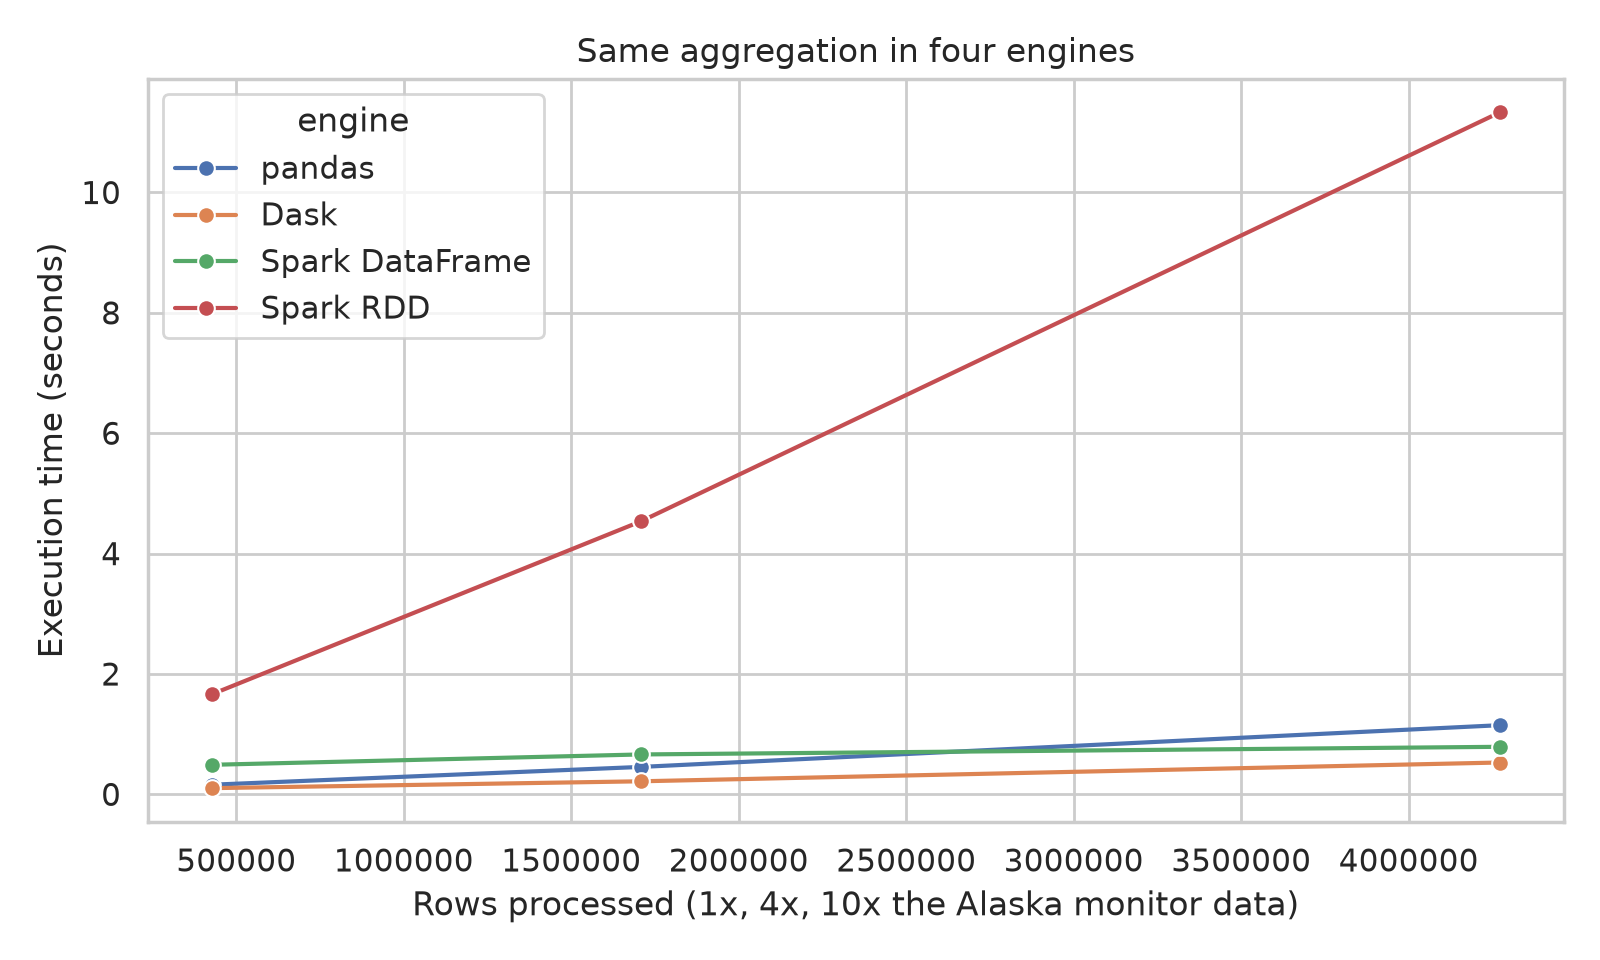
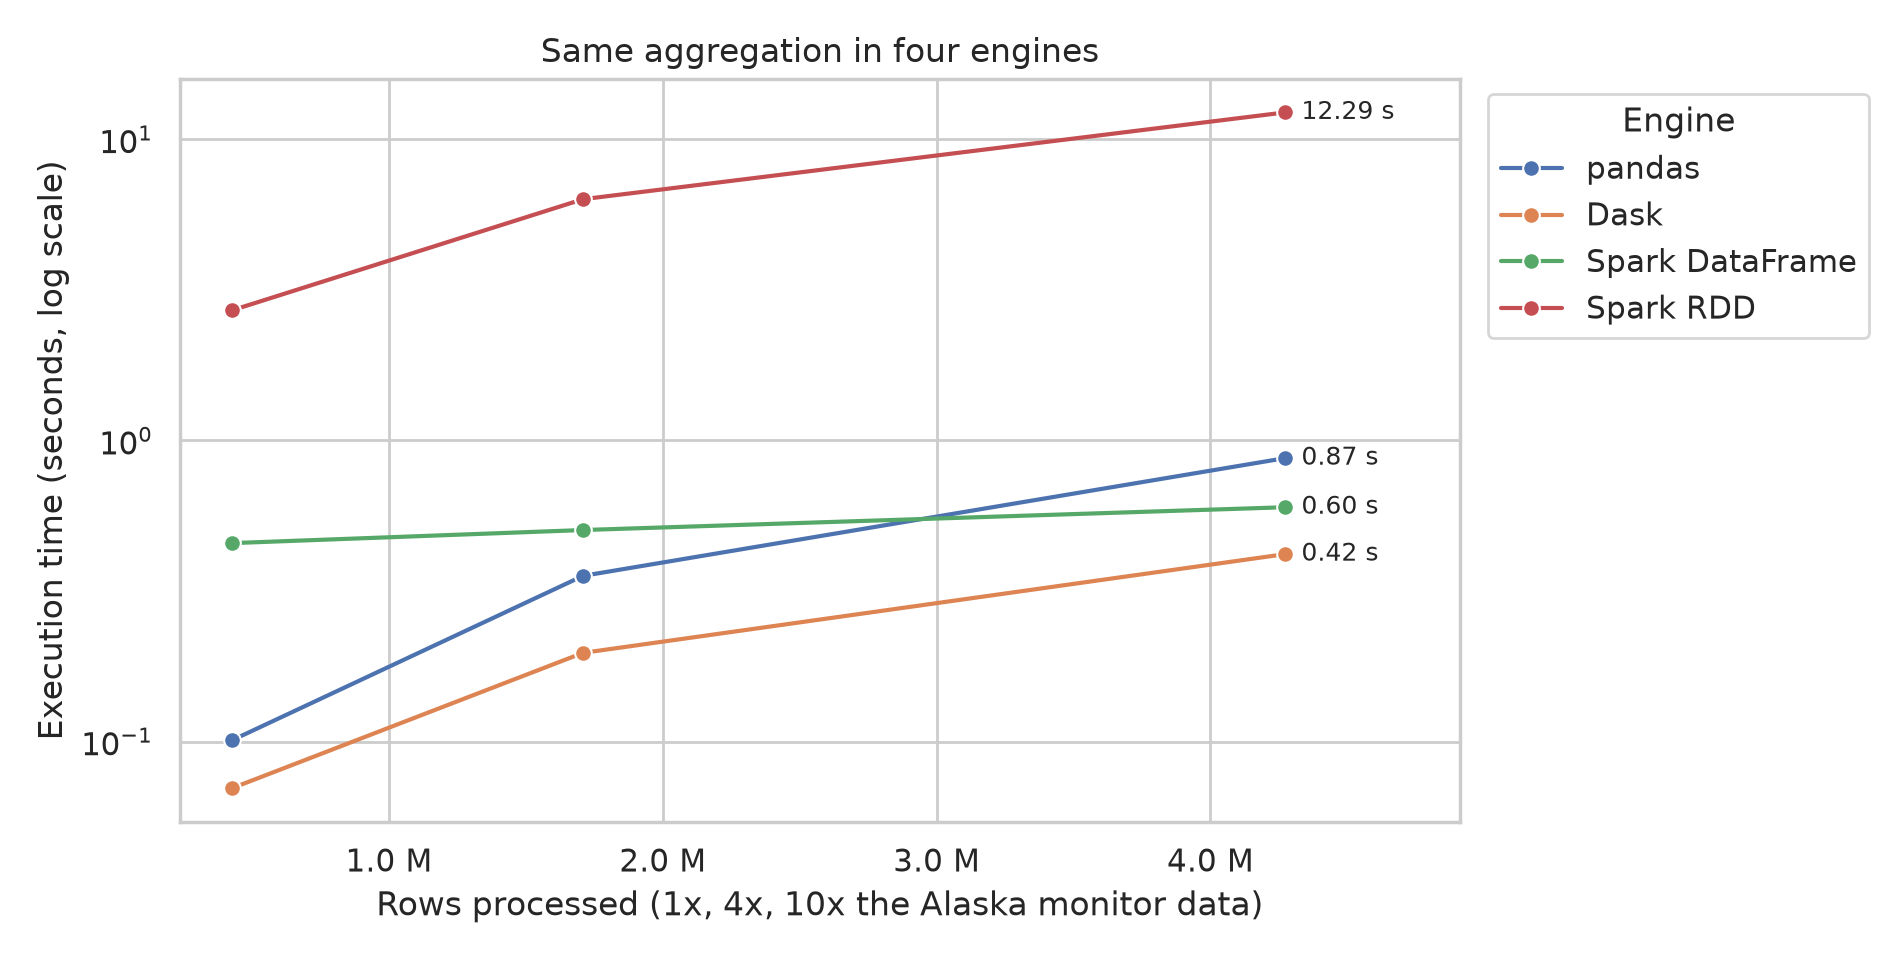
Add GitHub Actions results, streaming figure, architecture diagram and README figures

diff --git a/bdi/visualize.py b/bdi/visualize.py
@@ -2,6 +2,7 @@
 import json
 
 import matplotlib
+import matplotlib.ticker
 matplotlib.use("Agg")
 import matplotlib.pyplot as plt  # noqa: E402
 import pandas as pd  # noqa: E402
@@ -84,12 +85,19 @@ def fig_integration(summary):
 
 def fig_benchmark():
     b = pd.read_csv(RESULTS / "benchmark.csv")
-    fig, ax = plt.subplots(figsize=(8, 4.8))
+    fig, ax = plt.subplots(figsize=(9.5, 4.8))
     sns.lineplot(data=b, x="rows", y="seconds", hue="engine", marker="o", ax=ax)
     ax.set_xlabel("Rows processed (1x, 4x, 10x the Alaska monitor data)")
-    ax.set_ylabel("Execution time (seconds)")
+    ax.set_yscale("log")
+    ax.set_ylabel("Execution time (seconds, log scale)")
     ax.set_title("Same aggregation in four engines")
-    ax.ticklabel_format(axis="x", style="plain")
+    ax.xaxis.set_major_formatter(matplotlib.ticker.FuncFormatter(lambda v, _: f"{v / 1e6:.1f} M"))
+    for e, g in b.groupby("engine"):
+        last = g.iloc[-1]
+        ax.annotate(f"{last.seconds:.2f} s", (last.rows, last.seconds), textcoords="offset points",
+                    xytext=(6, 0), va="center", fontsize=9)
+    ax.set_xlim(right=b.rows.max() * 1.15)
+    ax.legend(title="Engine", loc="upper left", bbox_to_anchor=(1.01, 1))
     fig.tight_layout()
     fig.savefig(FIGURES / "fig5_benchmark.png", dpi=200)
     plt.close(fig)
@@ -104,6 +112,7 @@ def fig_stream():
     sns.barplot(data=s, y="brand", x="count", color="#2e7d32", ax=ax)
     ax.set_title("Listings per brand computed by Spark Structured Streaming from Kafka")
     ax.set_xlabel("Messages")
+    ax.set_ylabel("Brand detected in the listing title ('other' = none of 12 brands)")
     fig.tight_layout()
     fig.savefig(FIGURES / "fig6_streaming.png", dpi=200)
     plt.close(fig)

diff --git a/README.md b/README.md
@@ -4,6 +4,8 @@ DDS-8530 Big Data Integration, Week 6. Author: C. Elizabeth Brignoni Brignoni.
 
 This lab integrates the **monitor** vertical of the Alaska benchmark (Crescenzi et al., 2021): **16,662 product listings from 26 e-commerce websites, described by 1,687 distinct attribute names**, with curated ground truth for schema matching (87 target attributes, 1,026 labeled source attributes) and entity resolution (232 real-world monitors, 2,273 labeled listings).
 
+![Architecture](docs/architecture.png)
+
 ## What the pipeline does
 
 | Stage | Tools | Module |
@@ -27,7 +29,7 @@ python run_all.py                                     # downloads Alaska, runs e
 
 Without `MONGO_URI` the MongoDB step uses an in-memory mongomock database, and without `KAFKA_BOOTSTRAP` the streaming step is skipped. The GitHub Actions workflow (`.github/workflows/lab.yml`) starts real **PostgreSQL 16, MongoDB 7 and Apache Kafka 3.8** service containers and runs the complete lab, including streaming, on every push. Figures and `results/summary.json` are uploaded as a build artifact.
 
-## Key results (local run; see results/summary.json)
+## Key results (GitHub Actions run with PostgreSQL 16, MongoDB 7 and Kafka 3.8; see results/summary.json)
 
 | Measure | Result |
 | --- | --- |
@@ -38,6 +40,17 @@ Without `MONGO_URI` the MongoDB step uses an in-memory mongomock database, and w
 | Entity resolution pairwise precision / recall / F1 | 0.76 / 0.94 / 0.84 |
 | Candidate pairs: all pairs / after blocking | 2,582,128 / 12,712 (99.5% fewer) |
 | Ground-truth issues found | 60 duplicate rows; 9 listings assigned to two entities |
+| Kafka to Spark Structured Streaming | 3,000 messages in one micro-batch, 2.12 s (about 1,412 messages per second) |
+| Same aggregation at 10x volume (4.27 M rows) | Dask 0.42 s, Spark DataFrame 0.60 s, pandas 0.87 s, Spark RDD 12.29 s |
+| Full lab run time | 77.4 s (Spark jobs and benchmark 54.6 s) |
+
+## Figures
+
+| | |
+| --- | --- |
+| ![Sources](figures/fig1_sources.png) | ![Heterogeneity](figures/fig2_heterogeneity.png) |
+| ![Quality](figures/fig3_quality.png) | ![Integration](figures/fig4_integration.png) |
+| ![Benchmark](figures/fig5_benchmark.png) | ![Streaming](figures/fig6_streaming.png) |
 
 ## Source
 
